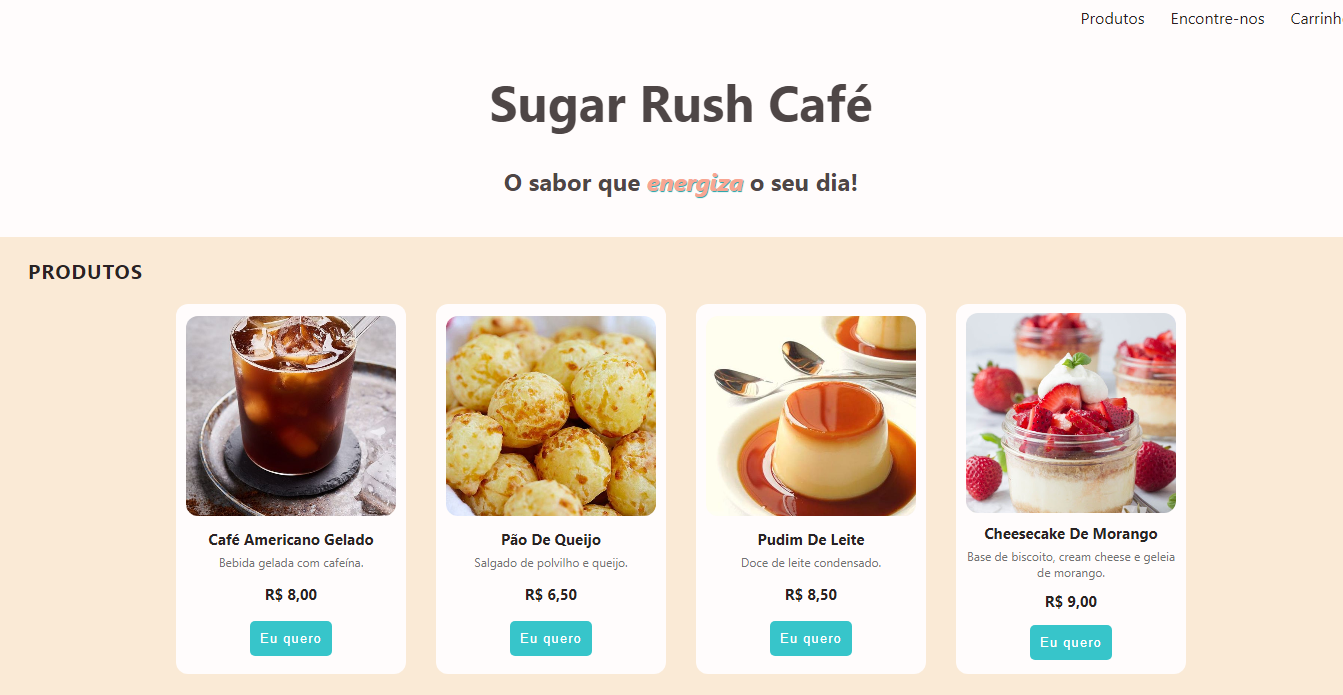
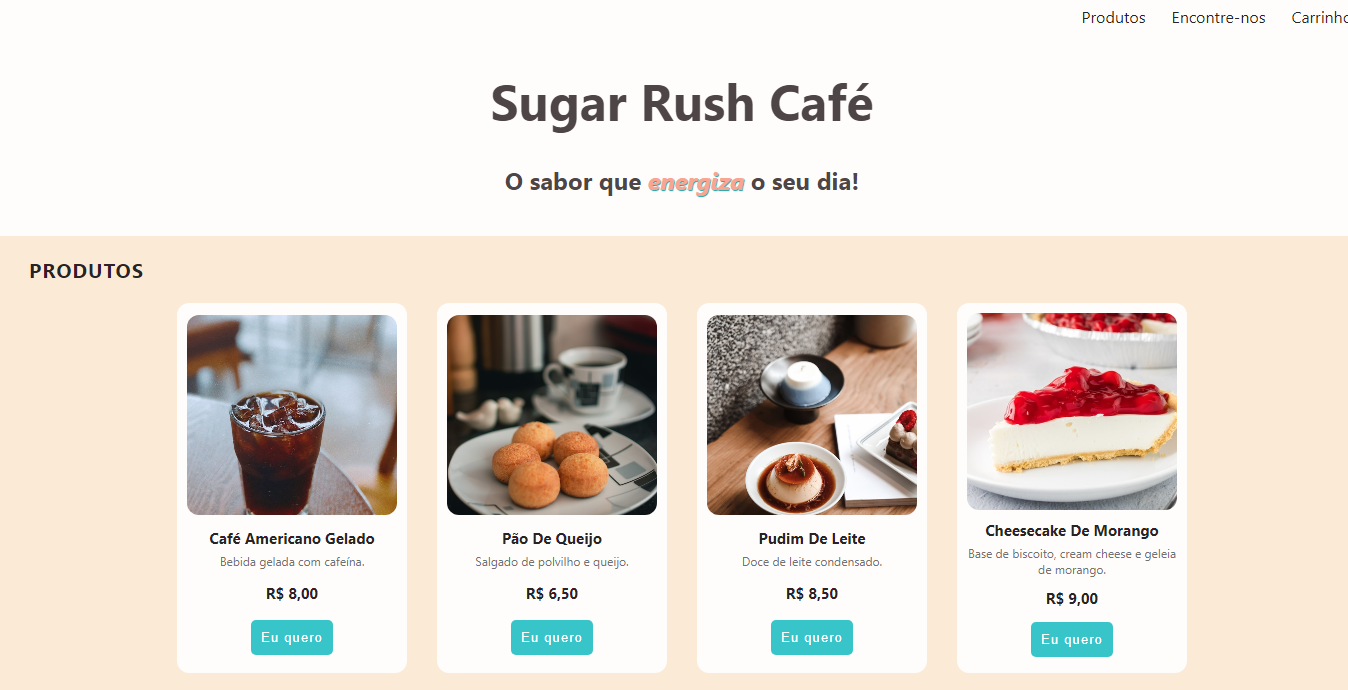
substituir imagens e adicionar creditos na pag

diff --git a/index.html b/index.html
@@ -60,7 +60,7 @@
                 </div>
 
                 <div class="card-produto">
-                    <img src="src/img/cheesecake-morango-no-pote.jpg" alt="cheesecake de morango no pote">
+                    <img src="src/img/cheesecake-morango.jpg" alt="cheesecake de morango">
                     <div class="info">
                         <h4 class="nome-produto">Cheesecake de morango</h4>
                         <p class="descricao">Base de biscoito, cream cheese e geleia de morango.</p>
@@ -82,10 +82,10 @@
                 </div>
 
                 <div class="card-produto">
-                    <img src="src/img/strawberry-matcha-latte.jpg" alt="copo de latte de matcha e morango">
+                    <img src="src/img/matcha-latte.jpg" alt="copo de latte de matcha">
                     <div class="info">
-                        <h4 class="nome-produto">Strawberry Matcha Latte</h4>
-                        <p class="descricao">Bebida gelada de matcha e morango.</p>
+                        <h4 class="nome-produto">Matcha Latte</h4>
+                        <p class="descricao">Bebida gelada de matcha.</p>
                     </div>
                     <p class="preco">R$ 14,00</p>
 
@@ -118,7 +118,9 @@
     </main>
 
     <footer class="rodape">
-
+        <h4 class="important">
+            Peça também pelo Whatsapp: <a href="tel:+5592999995555">(92)99999-5555</a>
+        </h4>
         <div class="cols">
             <section class="localizacao" id="localizacao">
                 <h4>Encontre-nos</h4>
@@ -155,11 +157,40 @@
                         </a></li>
                 </ul>
             </section>
+
+            <section class="creditos">
+                <h4>Créditos</h4>
+                <ul>
+                    <li>Ícones de <a href="https://www.iconfinder.com/iconsets/socials-3">Reyda Dönmez em Incofinder</a></li>
+                    <li>
+                        <a href="https://unsplash.com/@kalishao?utm_source=unsplash&utm_medium=referral&utm_content=creditCopyText">Kalisha Ocheni</a> na <a href="https://unsplash.com/pt-br/fotografias/_BBTqanOrBI?utm_source=unsplash&utm_medium=referral&utm_content=creditCopyText">Unsplash</a>
+                    </li>
+                    <li>
+                        <a href="https://unsplash.com/@idonothingbutlove?utm_source=unsplash&utm_medium=referral&utm_content=creditCopyText">I Do Nothing But Love</a> na <a href="https://unsplash.com/pt-br/fotografias/-D6dyt0Qhdg?utm_source=unsplash&utm_medium=referral&utm_content=creditCopyText">Unsplash</a>
+                    </li>
+                    <li>
+                        <a href="https://unsplash.com/@nathanielyeo?utm_source=unsplash&utm_medium=referral&utm_content=creditCopyText">Nathaniel Yeo</a> na <a href="https://unsplash.com/pt-br/fotografias/JFxD6BR2r3o?utm_source=unsplash&utm_medium=referral&utm_content=creditCopyText">Unsplash</a>
+                    </li>
+                    <li>
+                        <a href="https://unsplash.com/de/@rodolfoallen?utm_source=unsplash&utm_medium=referral&utm_content=creditCopyText">rodolfo allen_</a> na <a href="https://unsplash.com/pt-br/fotografias/mOedSrS6qS0?utm_source=unsplash&utm_medium=referral&utm_content=creditCopyText">Unsplash</a>
+                    </li>
+                    <li>
+                        <a href="https://unsplash.com/@jojoyuen?utm_source=unsplash&utm_medium=referral&utm_content=creditCopyText">Jojo Yuen</a> na <a href="https://unsplash.com/pt-br/fotografias/QOVUQH83Yq4?utm_source=unsplash&utm_medium=referral&utm_content=creditCopyText">Unsplash</a>
+                    </li>
+                    <li>
+                        <a href="https://unsplash.com/@mayurpixamind?utm_source=unsplash&utm_medium=referral&utm_content=creditCopyText">Mayur</a> na <a href="https://unsplash.com/pt-br/fotografias/vP9TjdIm9fE?utm_source=unsplash&utm_medium=referral&utm_content=creditCopyText">Unsplash</a>
+                    </li>
+                    <li>
+                        <a href="https://unsplash.com/@foodess?utm_source=unsplash&utm_medium=referral&utm_content=creditCopyText">Jennifer Pallian</a> na <a href="https://unsplash.com/pt-br/fotografias/sSnCZlEWN5E?utm_source=unsplash&utm_medium=referral&utm_content=creditCopyText">Unsplash</a>
+                    </li>
+                    <li>
+                        <a href="https://unsplash.com/@alanaharris?utm_source=unsplash&utm_medium=referral&utm_content=creditCopyText">Alana Harris</a> na <a href="https://unsplash.com/pt-br/fotografias/C63YZ33DdvY?utm_source=unsplash&utm_medium=referral&utm_content=creditCopyText">Unsplash</a>
+                    </li>
+                </ul>
+            </section>
         </div>
 
-        <h4 class="important">
-            Peça também pelo Whatsapp: <a href="tel:+5592999995555">(92)99999-5555</a></h4>
-        <p class="creditos">Desenvolvido por Raquel Roessing | 2023</p>
+        <p class="dev">Desenvolvido por Raquel Roessing | 2023</p>
     </footer>
 </body>
 </html>

diff --git a/src/css/style.css b/src/css/style.css
@@ -95,6 +95,7 @@ h3 {
     width: 210px;
     height: 200px;
     object-fit: cover;
+    
     border-radius: 12px;
     margin-bottom: 5px;
 }
@@ -145,20 +146,26 @@ footer {
 
 h4 {
     margin-bottom: 3px;
+    margin-top: 12px;
     font-size: 16px;
 }
 
 .cols {
     display: flex;
     flex-wrap: wrap;
-    justify-content: space-around;
+    justify-content: space-evenly;
     text-align: left;
+    gap: 10px;
+}
+
+.localizacao {
+    width: 250px;
 }
 
 .rodape ul {
     list-style-type: none;
     padding: 0;
-    margin-top: 15px;
+    margin-top: 7px;
 }
 
 .rodape li {
@@ -173,7 +180,20 @@ h4 {
     display: flex;
 }
 
-.rodape .creditos {
+.creditos {
+    text-align: right;
+}
+
+.creditos li {
+    font-size: 12px;
+}
+
+.creditos a {
+    text-decoration: none;
+    color: #1a9fa3;
+}
+
+.rodape .dev {
     text-align: center;
     font-size: 13px;
     margin-bottom: 10px;
@@ -182,8 +202,7 @@ h4 {
 .rodape .important {
     text-align: center;
     color: #1a9fa3;
-    margin-top: 10px;
-    padding-bottom: 8px;
+    margin-top: 13px;
 }
 
 .important a {

diff --git a/README.md b/README.md
@@ -7,19 +7,13 @@ Projeto parte do Elas Na Tech 2023: criação de um cardápio utilizando somente
 
 
 ### Referências utilizadas no projeto
-- [Iced americano](https://pin.it/6BSmmjS)
-- [Matcha Latte](https://pin.it/5u7nEZG)
-- [Cheesecake](https://pin.it/4u5CroS)
-- [Croissant](https://pin.it/2kLzw3a)
-- [Pão de queijo](https://pin.it/YkoqwPO)
-- [Pudim](https://pin.it/3a7u188)
-- [Cheesecake de morango](https://receitasmamachic.blogspot.com/2020/03/cheesecake-de-morango-no-pote.html)
+- Foto de [Kalisha Ocheni](https://unsplash.com/@kalishao?utm_source=unsplash&utm_medium=referral&utm_content=creditCopyText) em [Unsplash](https://unsplash.com/pt-br/fotografias/_BBTqanOrBI?utm_source=unsplash&utm_medium=referral&utm_content=creditCopyText)
+- Foto de [I Do Nothing But Love](https://unsplash.com/@idonothingbutlove?utm_source=unsplash&utm_medium=referral&utm_content=creditCopyText) em [Unsplash](https://unsplash.com/pt-br/fotografias/-D6dyt0Qhdg?utm_source=unsplash&utm_medium=referral&utm_content=creditCopyText)
+- Foto de [Nathaniel Yeo](https://unsplash.com/@nathanielyeo?utm_source=unsplash&utm_medium=referral&utm_content=creditCopyText) em [Unsplash](https://unsplash.com/pt-br/fotografias/JFxD6BR2r3o?utm_source=unsplash&utm_medium=referral&utm_content=creditCopyText)
+- Foto de [rodolfo allen_](https://unsplash.com/de/@rodolfoallen?utm_source=unsplash&utm_medium=referral&utm_content=creditCopyText) em [Unsplash](https://unsplash.com/pt-br/fotografias/mOedSrS6qS0?utm_source=unsplash&utm_medium=referral&utm_content=creditCopyText)
+- Foto de [Jojo Yuen](https://unsplash.com/@jojoyuen?utm_source=unsplash&utm_medium=referral&utm_content=creditCopyText) em [Unsplash](https://unsplash.com/pt-br/fotografias/QOVUQH83Yq4?utm_source=unsplash&utm_medium=referral&utm_content=creditCopyText)
+- Foto de [Mayur](https://unsplash.com/@mayurpixamind?utm_source=unsplash&utm_medium=referral&utm_content=creditCopyText) em [Unsplash](https://unsplash.com/pt-br/fotografias/vP9TjdIm9fE?utm_source=unsplash&utm_medium=referral&utm_content=creditCopyText)
+- Foto de [Jennifer Pallian](https://unsplash.com/@foodess?utm_source=unsplash&utm_medium=referral&utm_content=creditCopyText) em [Unsplash](https://unsplash.com/pt-br/fotografias/sSnCZlEWN5E?utm_source=unsplash&utm_medium=referral&utm_content=creditCopyText)
+- Foto de [Alana Harris](https://unsplash.com/@alanaharris?utm_source=unsplash&utm_medium=referral&utm_content=creditCopyText) em [Unsplash](https://unsplash.com/pt-br/fotografias/C63YZ33DdvY?utm_source=unsplash&utm_medium=referral&utm_content=creditCopyText)
 - Ícones [Reyda Dönmez](https://www.iconfinder.com/iconsets/socials-3)
 - Ideias [slogan](https://blog.stayapp.com.br/frases-para-propaganda-de-lanches/)
-
-
-
-
-
-
-
